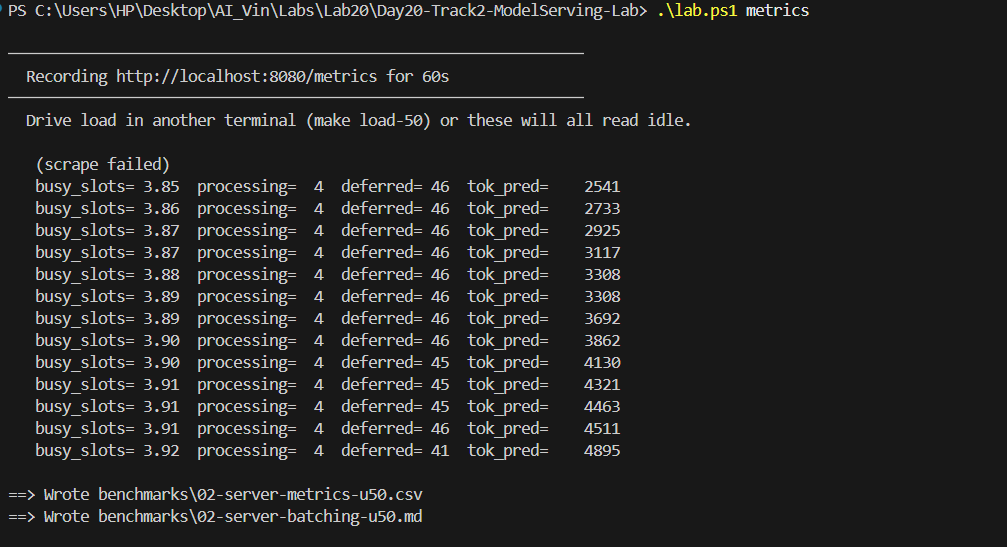
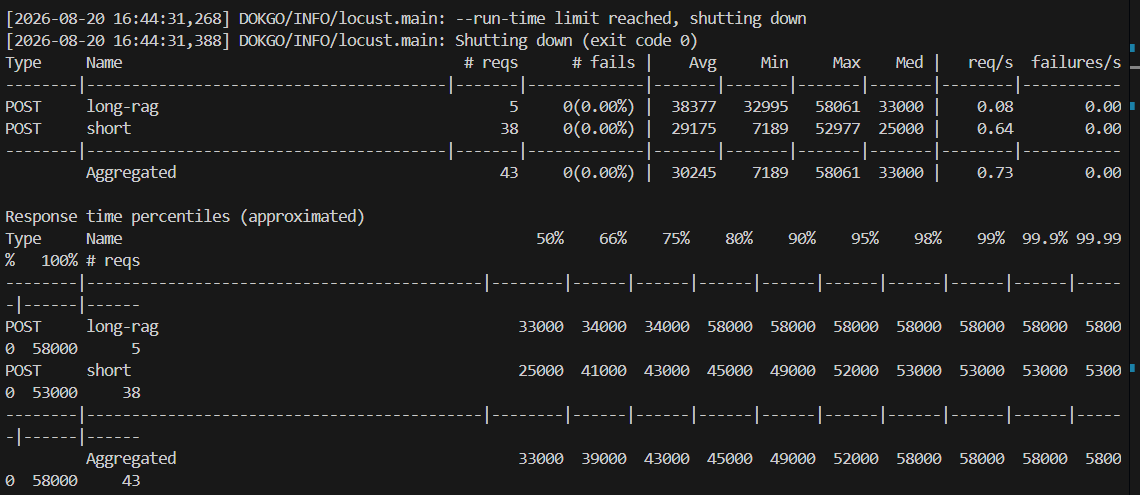
Update screenshots

diff --git a/lib/labkit.py b/lib/labkit.py
@@ -24,11 +24,6 @@ import time
 from contextlib import contextmanager
 from pathlib import Path
 
-if hasattr(sys.stdout, "reconfigure"):
-    sys.stdout.reconfigure(encoding="utf-8")
-if hasattr(sys.stderr, "reconfigure"):
-    sys.stderr.reconfigure(encoding="utf-8")
-
 # Pinned llama.cpp release. Gemma 4 (architecture "gemma4", April 2026) needs a
 # build newer than that; this one is well past it. Bump deliberately, not casually.
 LLAMA_CPP_BUILD = "b10488"
@@ -235,73 +230,9 @@ def threads(hw: dict | None = None) -> int:
     return env_int("LAB_N_THREADS", hw.get("cpu", {}).get("cores_physical") or 4)
 
 
-_DEVICE_CACHE: dict[str, list[str]] = {}
-
-
-def visible_devices(binary: Path | None = None) -> list[str]:
-    """Accelerator devices the runtime binary can actually reach.
-
-    hardware.json answers "which GPU is installed", which is NOT the same question
-    as "can the llama.cpp build we downloaded use it". Upstream ships no Linux CUDA
-    asset, so an NVIDIA box on Linux gets the Vulkan build -- and with no Vulkan ICD
-    installed that build enumerates nothing and runs on CPU without complaining.
-    Asking the binary is the only answer that cannot be wrong.
-
-    Returns [] when there is no accelerator, no binary, or the probe fails.
-    """
-    exe = binary or runtime_bin("llama-server", required=False)
-    if not exe:
-        return []
-    key = str(exe)
-    if key in _DEVICE_CACHE:
-        return _DEVICE_CACHE[key]
-    devices: list[str] = []
-    try:
-        out = subprocess.run([str(exe), "--list-devices"], capture_output=True,
-                             text=True, check=False, timeout=60)
-        seen_header = False
-        for line in (out.stdout + out.stderr).splitlines():
-            if line.strip().startswith("Available devices:"):
-                seen_header = True
-                continue
-            if seen_header:
-                entry = line.strip()
-                if not entry or entry == "(none)":
-                    continue
-                if not line.startswith((" ", "\t")):
-                    break
-                devices.append(entry)
-    except (OSError, subprocess.SubprocessError):
-        devices = []
-    _DEVICE_CACHE[key] = devices
-    return devices
-
-
-def gpu_offload_is_live(hw: dict | None = None) -> tuple[bool, str]:
-    """(offload_available, human explanation). Used to keep reports honest."""
-    hw = hw if hw is not None else load_hardware(required=False)
-    if not any_gpu(hw):
-        return False, "no accelerator detected"
-    devices = visible_devices()
-    if devices:
-        return True, devices[0]
-    return False, ("an accelerator is installed but this llama.cpp build enumerates "
-                   "no devices -- offload would silently run on CPU")
-
-
 def n_gpu_layers(hw: dict | None = None) -> int:
-    """Layers to offload. Defaults to 0 unless the runtime really sees a device.
-
-    Reporting `ngl=99` while the binary is on CPU makes every generated benchmark
-    header claim a GPU run that never happened, so the default is verified rather
-    than assumed. Set LAB_N_GPU_LAYERS to override in either direction.
-    """
-    if (os.environ.get("LAB_N_GPU_LAYERS") or "").strip():
-        return env_int("LAB_N_GPU_LAYERS", 0)
     hw = hw if hw is not None else load_hardware(required=False)
-    if not any_gpu(hw):
-        return 0
-    return 99 if visible_devices() else 0
+    return env_int("LAB_N_GPU_LAYERS", 99 if any_gpu(hw) else 0)
 
 
 def n_ctx() -> int:
@@ -539,7 +470,7 @@ def die(*lines: str) -> None:
 
 
 def banner(title: str) -> None:
-    print(f"\n{'-' * 64}\n  {title}\n{'-' * 64}")
+    print(f"\n{'─' * 64}\n  {title}\n{'─' * 64}")
 
 
 def host_tag() -> str:
